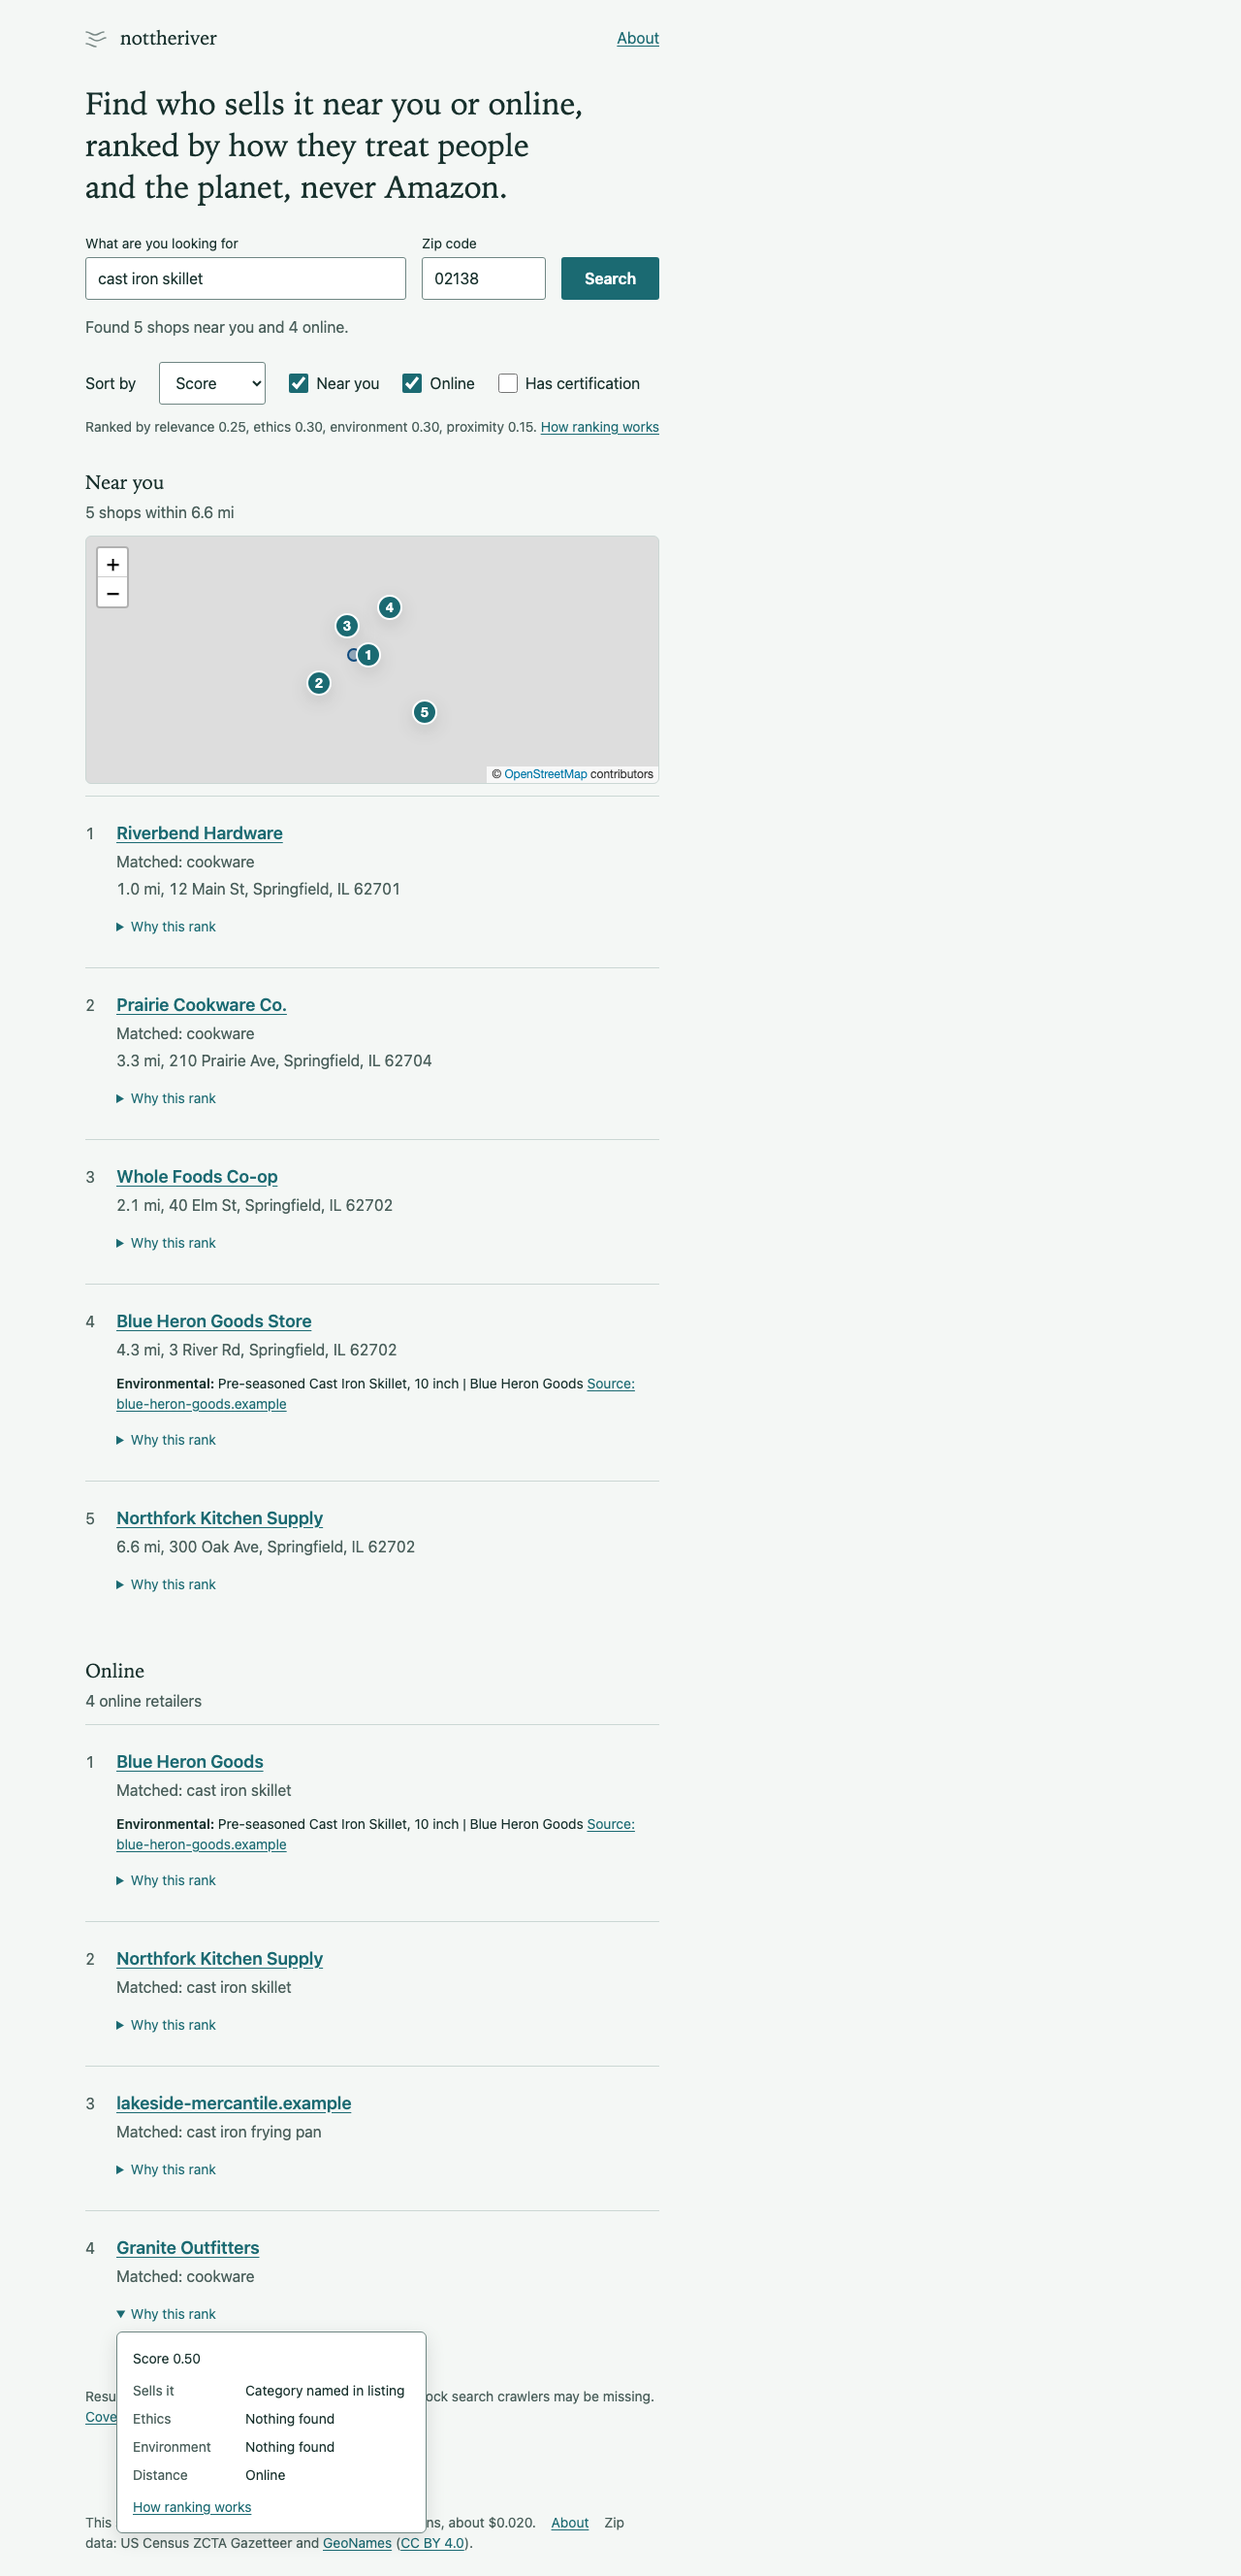
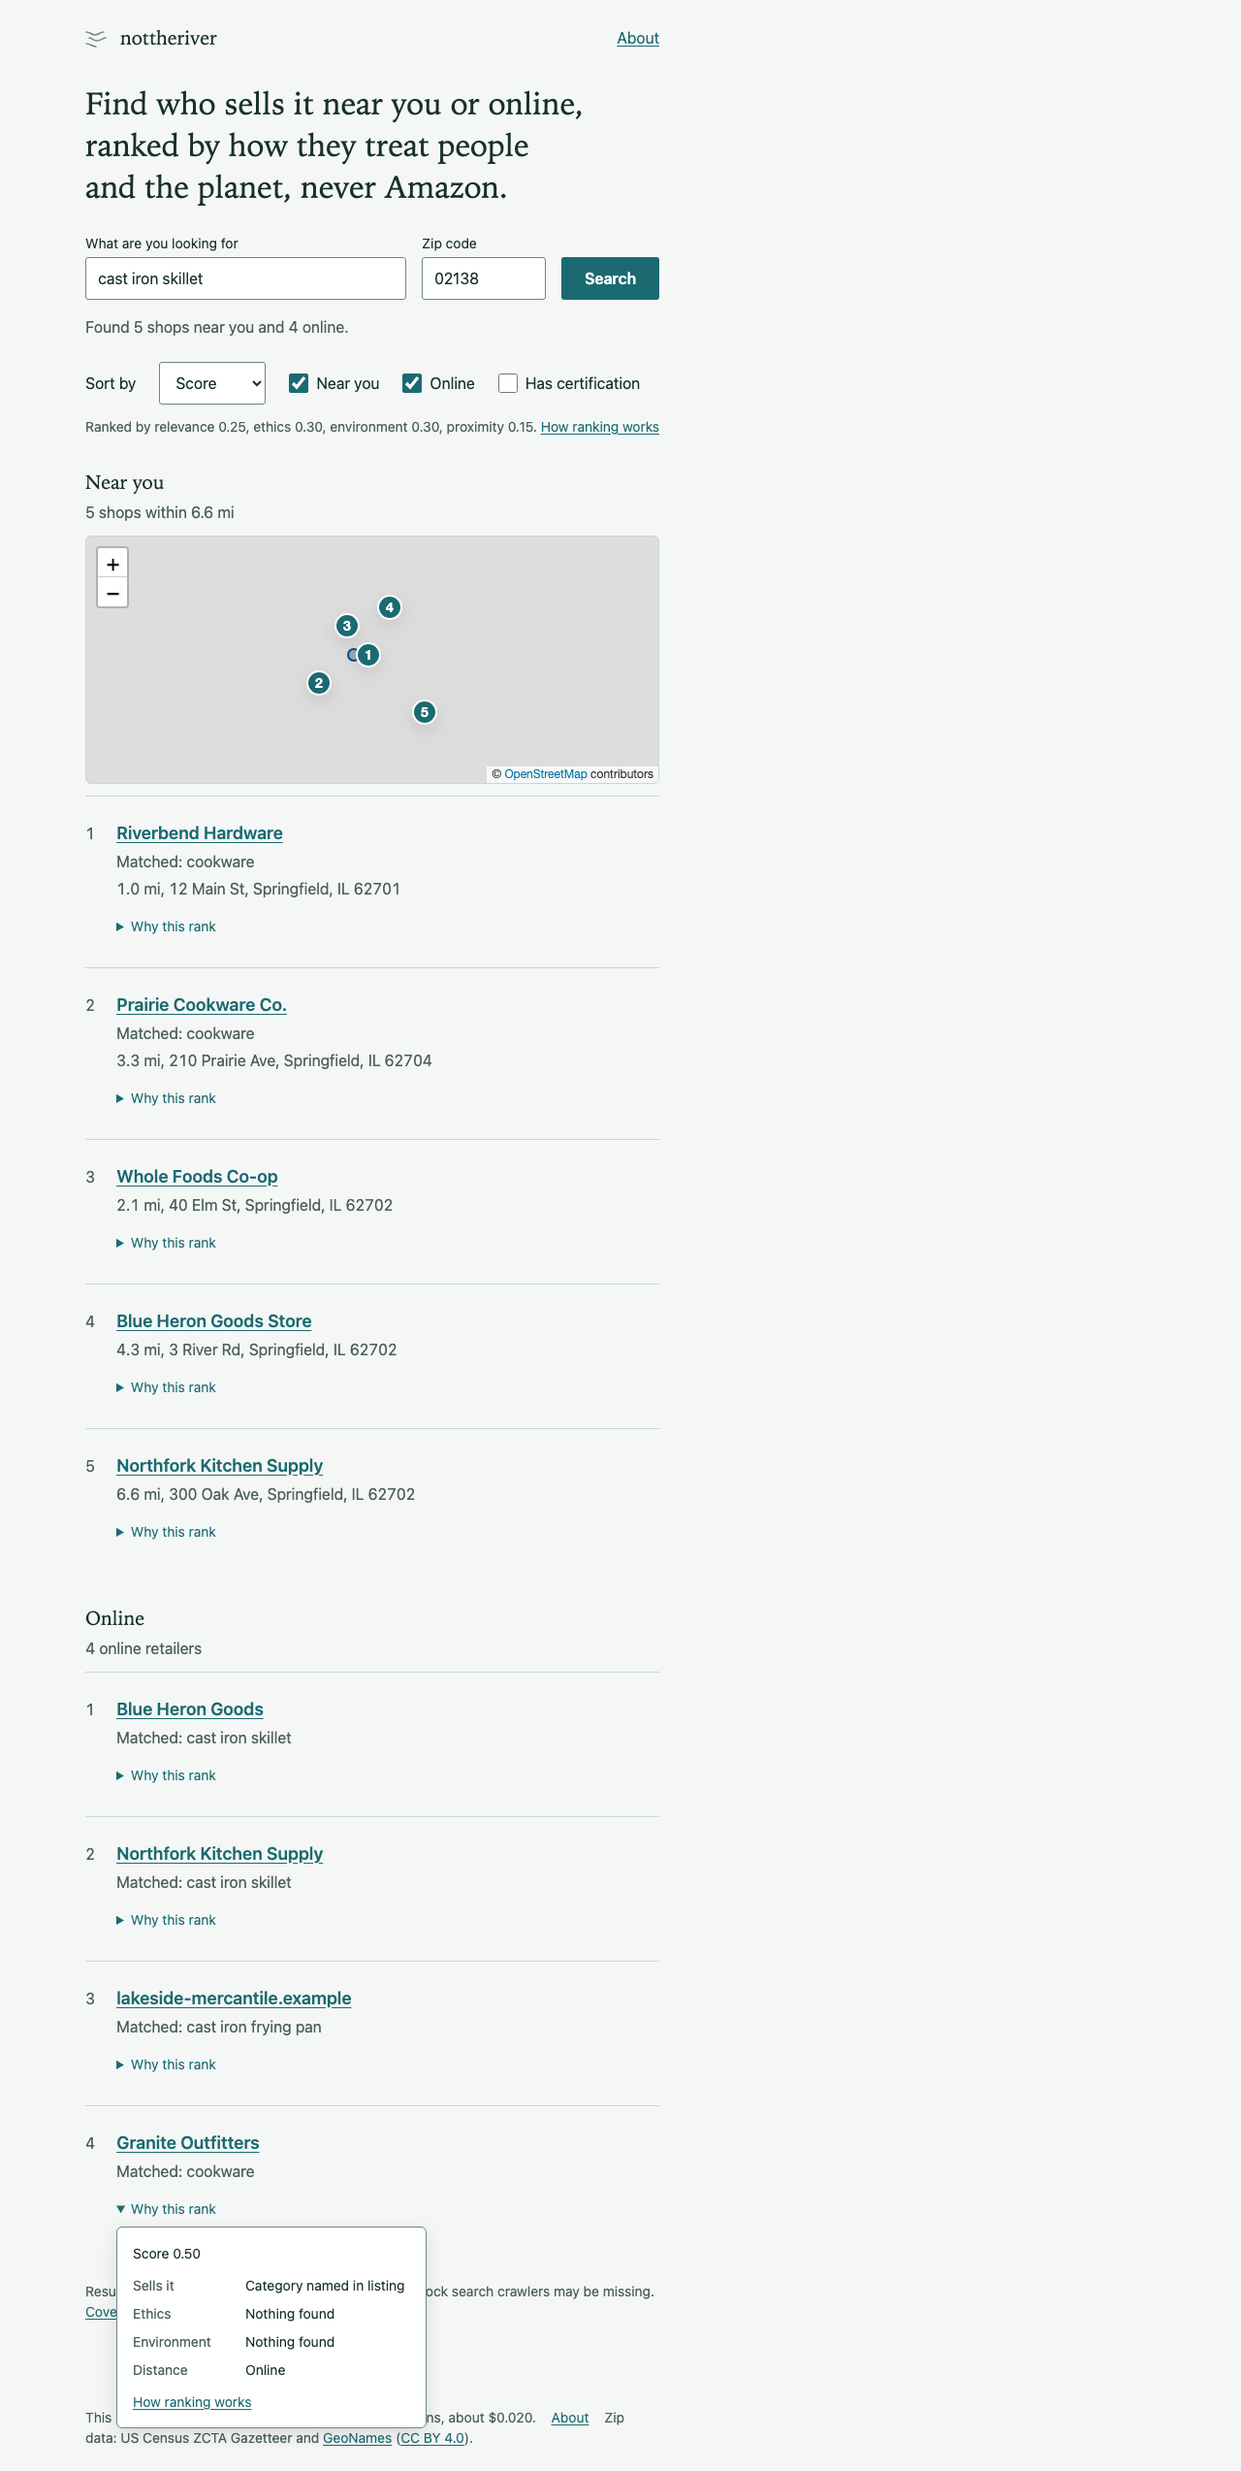
fix(proxy): drop positive signals that cite the shop's own site
A shop's own page is not evidence about itself, and the claim shown was
its page title under a label such as "Governance". Positives now need a
fetched page on another site that names the shop.

Changed region(s): [[0.0625, 0.031, 0.5312, 0.6203], [0.0625, 0.6514, 0.375, 0.9925], [0.5, 0.0, 0.5312, 0.031]]

diff --git a/proxy/test/enrich.test.ts b/proxy/test/enrich.test.ts
@@ -73,11 +73,9 @@ describe('acceptSignals', () => {
     expect(acceptSignals(output(shop.domain, signal('https://riverbend-hardware.example/elsewhere')), all, REGISTRY).size).toBe(0);
   });
 
-  it('keeps a positive citing the retailer\'s own page, with the fetched title as the claim', () => {
-    const result = acceptSignals(output('www.riverbend-hardware.example', signal(`${shop.url}/`, 'positive', 'environmental')), all, REGISTRY);
-    expect(result.get(shop.domain)).toEqual([
-      { kind: 'environmental', polarity: 'positive', claim: 'Pans | Riverbend Hardware', source_url: shop.url, origin: 'llm', action_date: null },
-    ]);
+  // Its claim would be the shop's own page title, which says nothing about labor or the environment.
+  it('drops a positive citing the retailer\'s own page', () => {
+    expect(acceptSignals(output('www.riverbend-hardware.example', signal(`${shop.url}/`, 'positive', 'environmental')), all, REGISTRY).size).toBe(0);
   });
 
   it('keeps a positive from another fetched page only when that page names the retailer', () => {
@@ -102,7 +100,7 @@ describe('acceptSignals', () => {
   });
 
   it('counts a repeated signal once', () => {
-    const result = acceptSignals(output(shop.domain, signal(shop.url), signal(`${shop.url}/`)), all, REGISTRY);
+    const result = acceptSignals(output(shop.domain, signal(blog.url), signal(`${blog.url}/`)), all, REGISTRY);
     expect(result.get(shop.domain)).toHaveLength(1);
   });
 
@@ -114,10 +112,10 @@ describe('acceptSignals', () => {
     const fetched = mapWebResults(web1, REGISTRY);
     const content = JSON.parse(enrichFixture.choices[0]!.message.content) as EnrichOutput;
     const result = acceptSignals(content, fetched, REGISTRY);
-    expect([...result.keys()]).toEqual(['blue-heron-goods.example']);
-    expect(result.get('blue-heron-goods.example')).toEqual([
-      expect.objectContaining({ polarity: 'positive', source_url: 'https://blue-heron-goods.example/cast-iron', origin: 'llm' }),
-    ]);
+    // Blue Heron's own-page positive is dropped; the FTC negative (not a mention of it), the unfetched
+    // page, Granite's own-page negative and the unknown shop fall to the other rules.
+    expect(content.retailers.flatMap((r) => r.signals).some((s) => s.source_url === 'https://blue-heron-goods.example/cast-iron')).toBe(true);
+    expect(result.size).toBe(0);
   });
 });
 
@@ -146,7 +144,7 @@ describe('curated lookups', () => {
     ]);
   });
 
-  it('enrichAll joins curated data and accepted signals for every candidate', async () => {
+  it('enrichAll joins curated data and the model reply for every candidate', async () => {
     const fetch = makeFixtureFetch(defaultRoutes());
     const llm = createLlmClient({ fetch, apiKey: 'k', siteUrl: 'https://site.example', siteName: 'test' });
     const pass1 = [...mapWebResults(web1, REGISTRY).filter((c) => c.domain.endsWith('.example')), candidate({})];
@@ -155,7 +153,10 @@ describe('curated lookups', () => {
     const shopRow = rows.find((r) => r.candidate.domain === 'shop.example')!;
     expect(shopRow.certifications).toHaveLength(2);
     expect(shopRow.signals).toEqual([expect.objectContaining({ origin: 'curated' })]);
-    expect(rows.find((r) => r.candidate.domain === 'blue-heron-goods.example')!.signals).toEqual([expect.objectContaining({ origin: 'llm' })]);
+    // The reply's one classification (c0, the first candidate) lands on its row; its only
+    // acceptable-looking signal cites the shop's own page and is dropped.
+    expect(rows[0]!.classification).toEqual({ site_type: 'retailer', sells_product: 'yes' });
+    expect(rows.find((r) => r.candidate.domain === 'blue-heron-goods.example')!.signals).toEqual([]);
     expect(llm.usage.map((u) => u.call)).toEqual(['enrich']);
   });
 

diff --git a/proxy/test/pipeline.test.ts b/proxy/test/pipeline.test.ts
@@ -451,8 +451,8 @@ describe('the second blocklist pass', () => {
     expect(spy).toHaveBeenCalledTimes(2);
     expect(domainsOf(spy.mock.calls[0]![0])).toContain('amazon.com');
     expect(domainsOf(spy.mock.results[0]!.value)).not.toContain('amazon.com');
-    // The clean retailer's signal from the same reply was accepted, so the reply was used.
-    expect(res.online.find((r) => r.retailer.domain === 'blue-heron-goods.example')!.signals.map((s) => s.origin)).toContain('llm');
+    // The reply was used: its one classification means one fewer shown result went unjudged.
+    expect(res.usage.unclassified_shown!.online).toBe(res.online.length - 1);
     expectAmazonFree(res);
   });
 

diff --git a/proxy/src/enrich.ts b/proxy/src/enrich.ts
@@ -133,6 +133,8 @@ export function acceptSignals(
       const about = cited.domain === domain || mentionTerms.some((t) => text.includes(t));
       if (!about) continue;
       if (s.polarity === 'negative' && !negativeSources.has(cited.domain)) continue;
+      // A shop vouching for itself is not evidence, and the claim shown would be its own page title.
+      if (s.polarity === 'positive' && cited.domain === domain) continue;
 
       const list = accepted.get(domain) ?? [];
       // Repeats would otherwise count twice in the score.

diff --git a/docs/decisions/0004-down-ranking.md b/docs/decisions/0004-down-ranking.md
@@ -11,6 +11,7 @@ Negative findings (labor, governance, environmental) lower a shop's score. A wro
 - **Accepted sources only.** A finding lowers a score only if the registrable domain of its source URL is in `data/negative-sources.md` (machine copy `negative-sources.json`; a test keeps them equal): regulators, court records, established news organizations and recognized watchdogs, each with a one-line rationale and verified to exist. New sources come by pull request.
 - **Curated first.** The main path is `data/negatives.json`: rows curated by hand, joined by registrable domain, each with its source URL, the action date and a check date. They need no fetched page.
 - **The model only points.** The model may suggest a finding by citing a URL. Code accepts it only if the URL is one of the pages fetched for this search (after the first blocklist pass, so a blocked page can never be cited), the page is the shop's own or names the shop by name or domain label (the mention rule: a regulator page that does not name the shop cannot down-rank it), and, for a negative, the page's domain is an accepted source.
+- **No self-vouching (amended 2026-09-24).** A positive signal citing the shop's own site is dropped: the page is the shop describing itself, and the claim shown would be its page title.
 - **Accepted-source pages are never shops.** Brave results on an accepted-source domain are dropped before ranking, so a regulator can never appear as a retailer, and a registry page cannot be ranked and then cited against an unrelated shop.
 - **No model-authored text.** The page shows the finding's kind, the source's own title as the claim, the source link and, for curated rows, the action date. Model prose is discarded.
 - **Every finding is disputable.** Each one shows a "Dispute this" link to the dispute issue template.

diff --git a/docs/debt.md b/docs/debt.md
@@ -64,7 +64,6 @@ Shortcuts taken for the proof of concept, each with the best-practice alternativ
 | The certification and signal kind lists in `score.ts` are hardcoded; no test checks they match the `kinds` map in `data/certifications.json` | A cross-file assertion in `pipeline.test.ts` |
 | Local relevance uses only the place title and its categories list (`/local/descriptions` is not called), so most local results score 0.5 or 0.2 | Fetch `/local/descriptions` or the store's product page |
 | Relevance is a substring match on normalized text, so a short product name matches inside a longer word ('pan' in 'Japan') and a plural product name does not match singular text | Whole-word matching with an optional plural s, or a structured relevance judgment validated in code |
-| A shop's own page can be cited as a positive signal: in the pipeline fixtures (`tests/fixtures/llm/enrich.json` citing `tests/fixtures/brave/web-1.json`) Blue Heron Goods gets an 'Environmental' signal whose claim is its own product title, visible in `docs/evidence/results.png` | Require a positive signal to cite a third-party page |
 | The model view (`llmView` in `proxy/src/enrich.ts`) caps title and snippet but not URL, so a long URL raises prompt size and cost | Cap or drop the URL in the model view |
 
 ## Zip data

diff --git a/docs/ranking.md b/docs/ranking.md
@@ -92,7 +92,7 @@ A finding lowers a score only if all of these hold:
 
 **The model path cannot fire yet.** The code accepts a model-suggested finding only when it cites a page that was among the fetched search results, that page names the shop, and that page sits on an accepted-source domain. But the Worker drops every search result on an accepted-source domain before ranking (a regulator's page must never be ranked as a shop), so no such page is ever citable. The path stays in the code, and becomes live only if registry pages are someday fetched as citable evidence rows separate from shop results.
 
-Positive signals the model points at (for example a shop's own sustainability page) are shown as information and never change the score; only curated certifications raise it.
+Positive signals the model points at are shown as information and never change the score; only curated certifications raise it. A positive must cite a fetched page on another site that names the shop: a shop's own page is not evidence about itself, and the claim shown would be its own page title.
 
 ## Disputes
 
